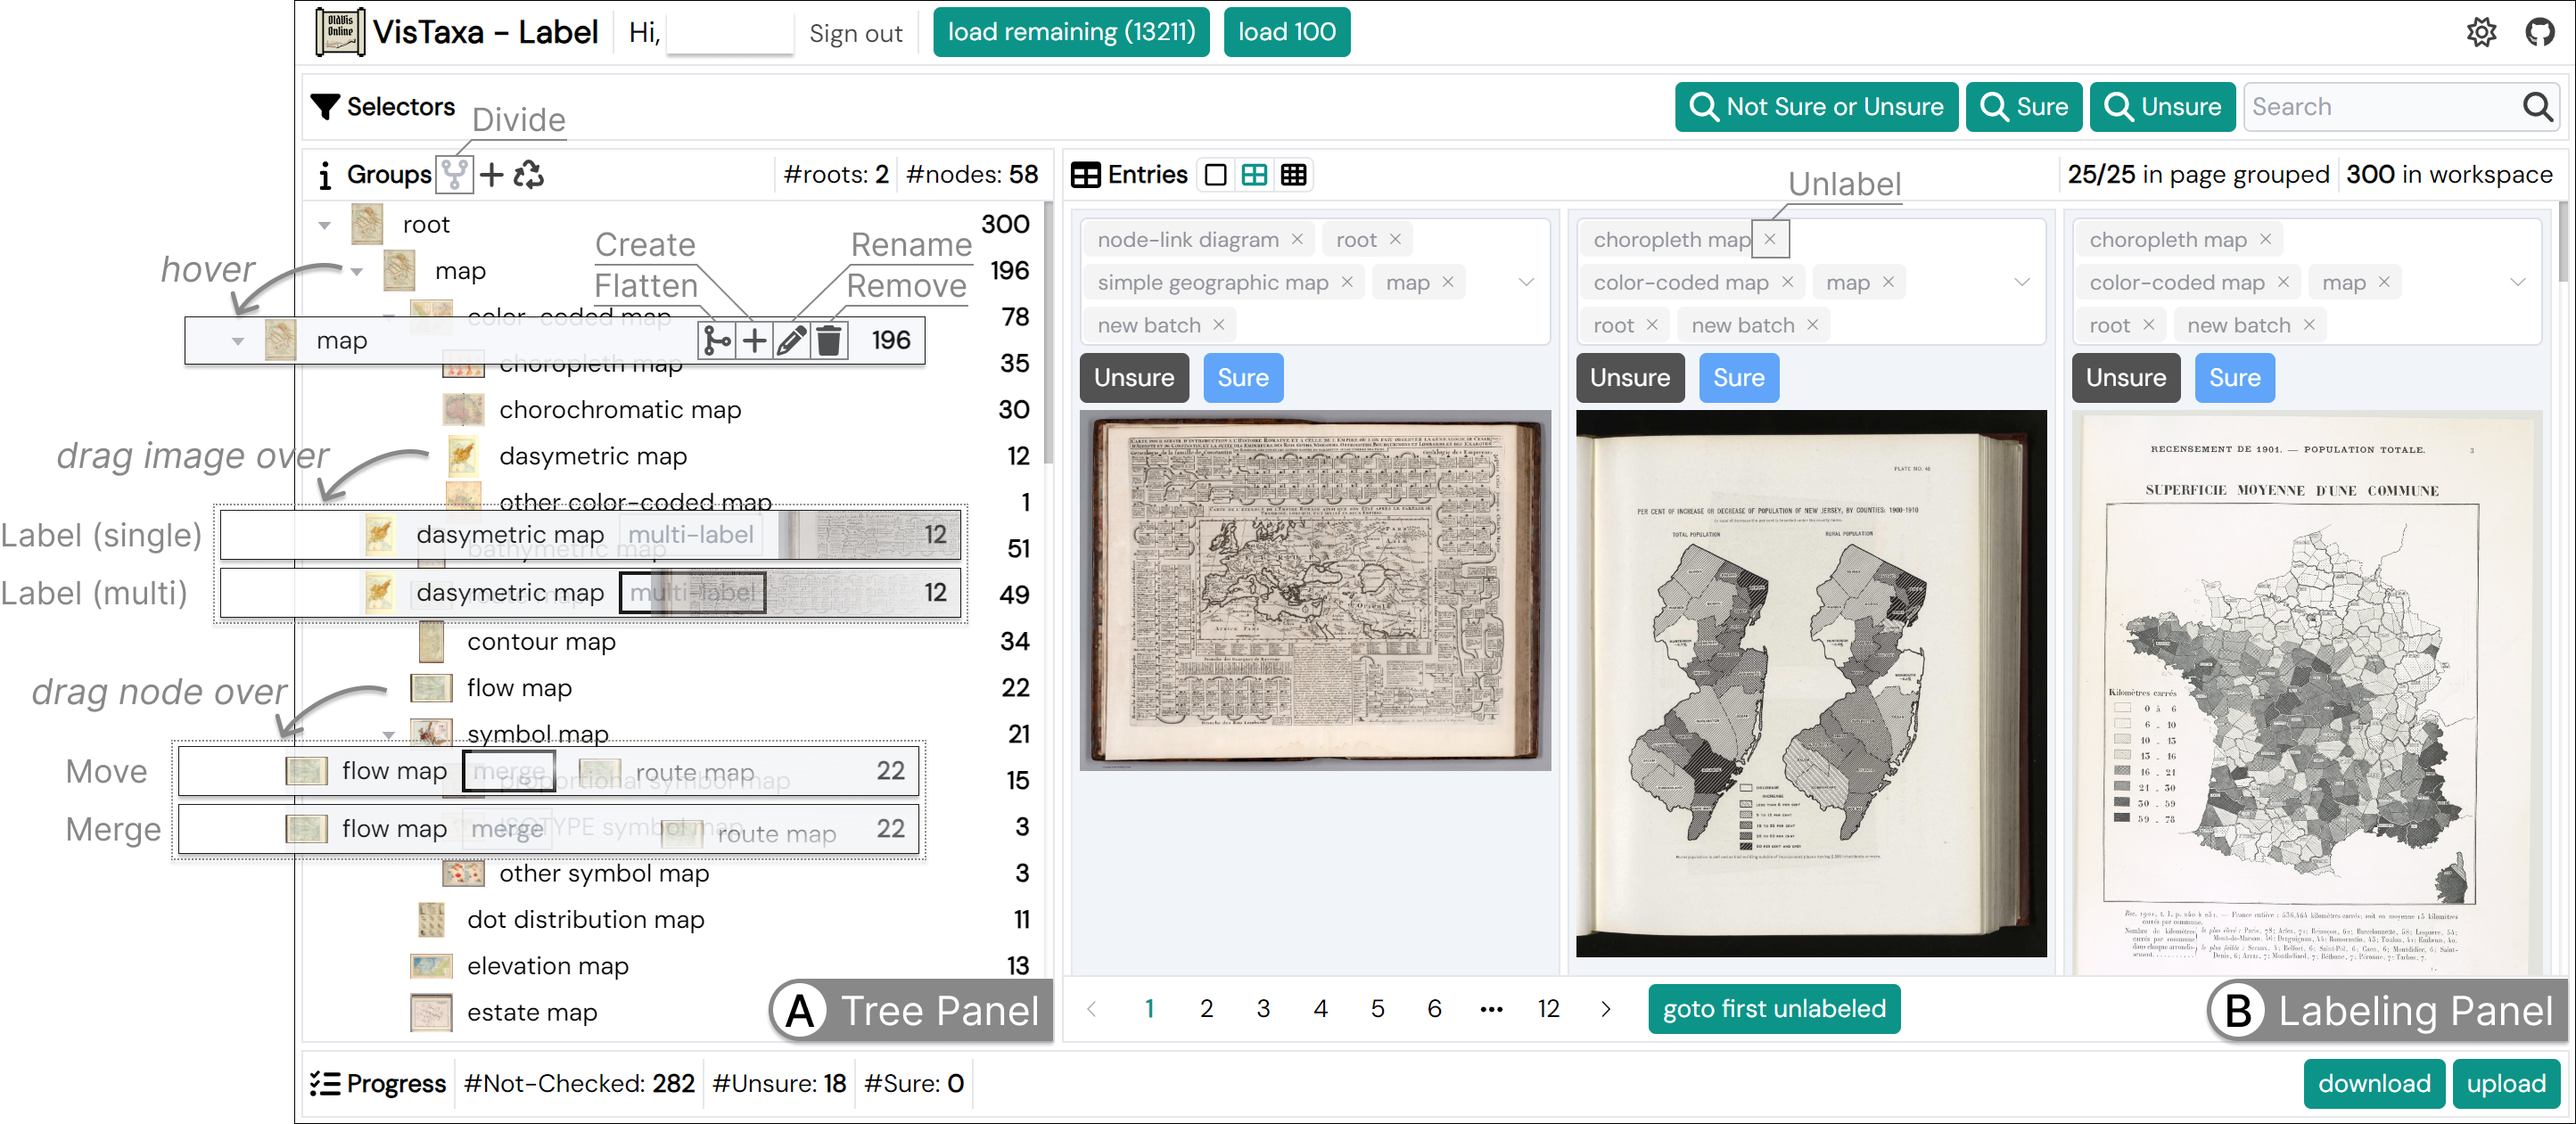
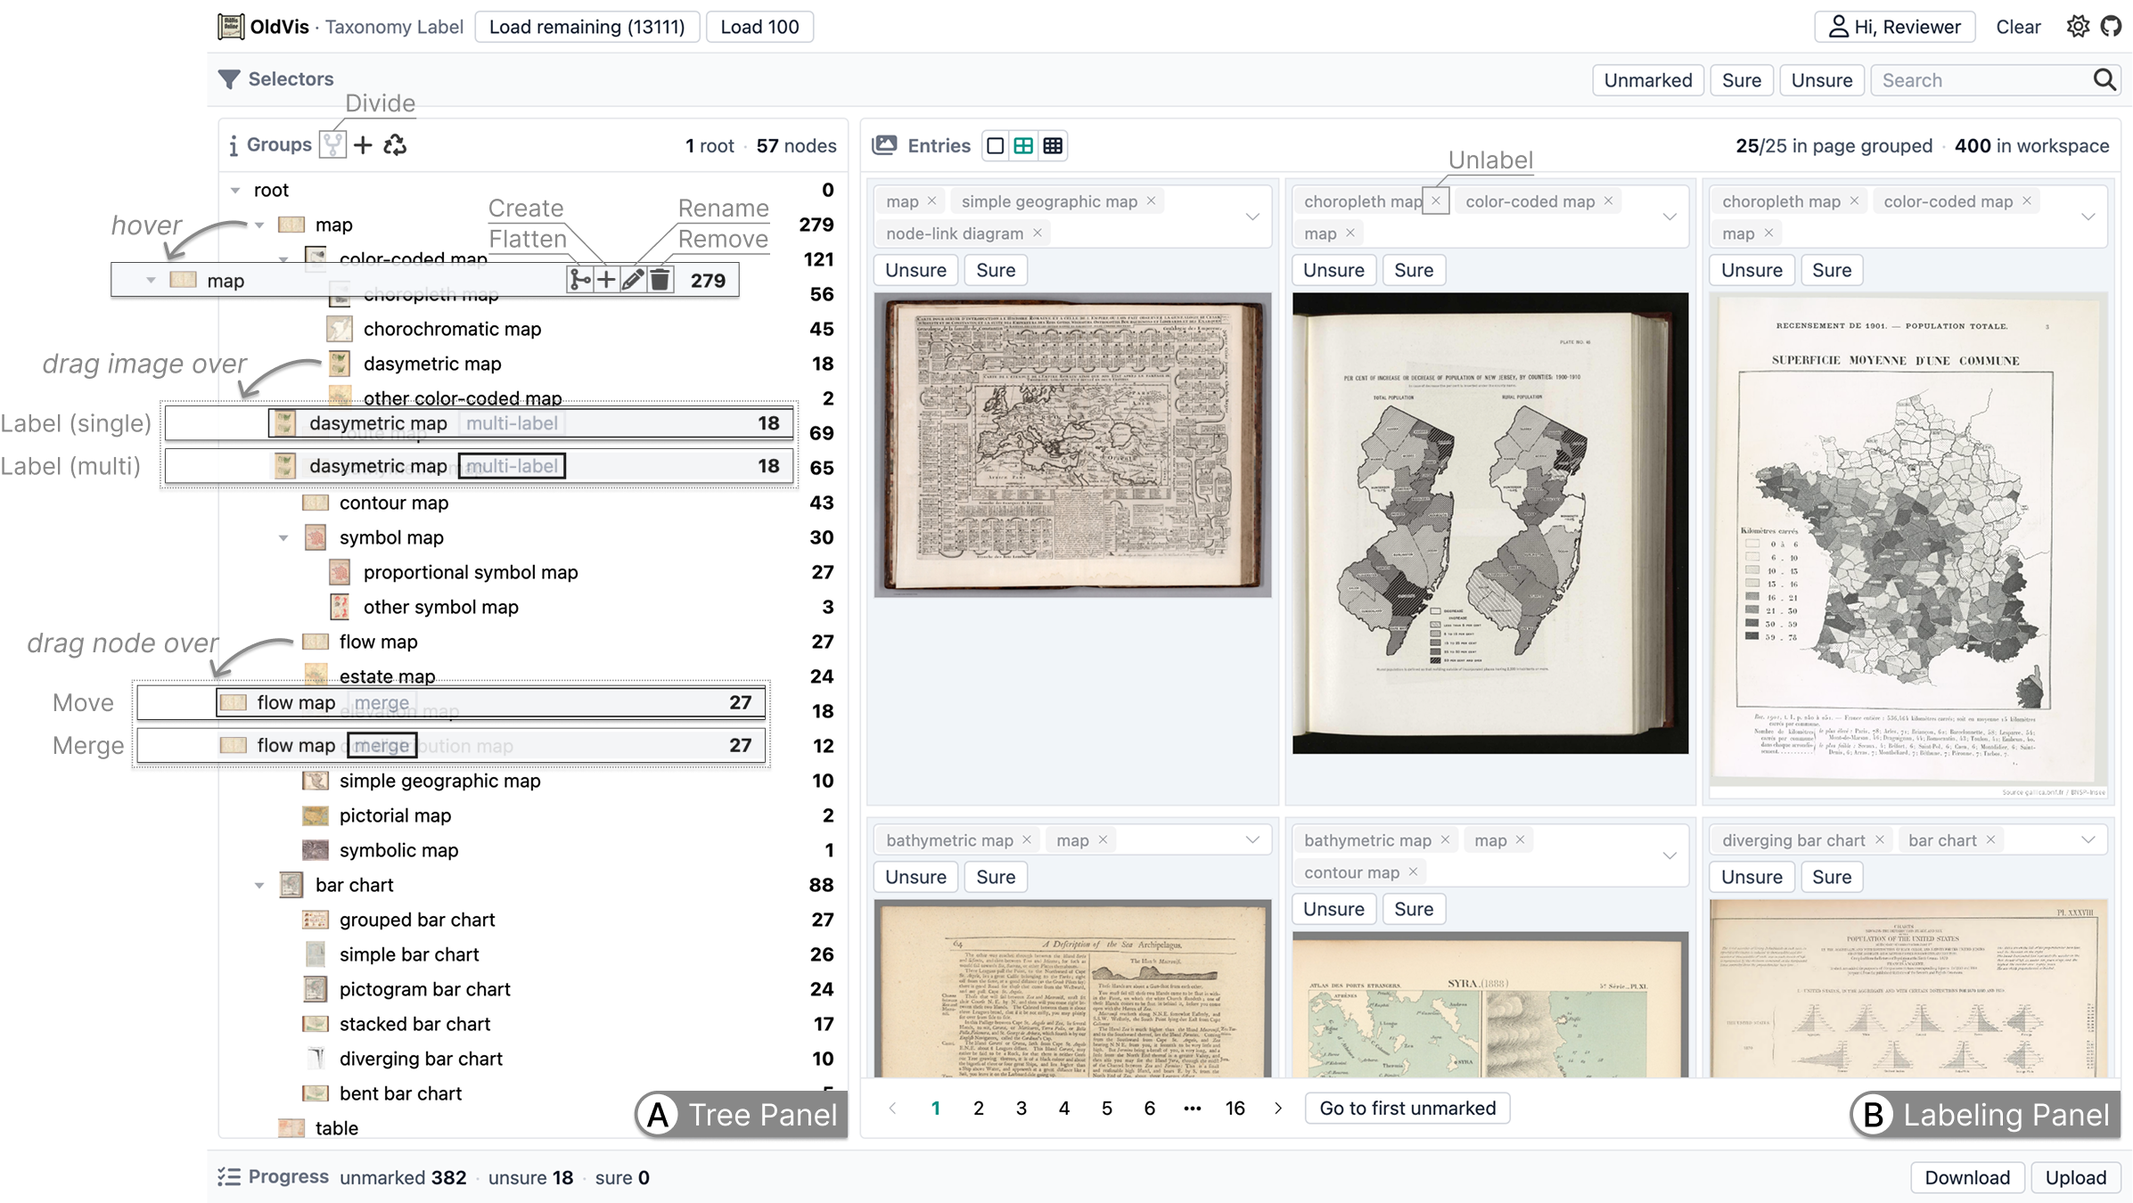
docs: keep Label README shots under public/assets
Move capture outputs out of the public root so screenshots stay together, retarget node-drag clips to flow map, and use leading-none so the drop outline lines up with the row.

diff --git a/apps/label/e2e/helpers/readmeCapture.ts b/apps/label/e2e/helpers/readmeCapture.ts
@@ -5,21 +5,21 @@ import { fileURLToPath } from 'node:url'
 const helperDir = path.dirname(fileURLToPath(import.meta.url))
 const repoRoot = path.resolve(helperDir, '../../../..')
 
-export const MAINTAINER_OVERVIEW = 'screenshot.png'
+export const MAINTAINER_OVERVIEW = 'assets/screenshot.png'
 export const README_UNSURE_COUNT = 18
 
 export const SERVER_IMAGES_DIR = path.join(repoRoot, 'server/static/images')
 export const SERVER_THUMBNAILS_DIR = path.join(repoRoot, 'server/static/thumbnails')
 
 export const SCREENSHOT_OUTPUTS = {
-  raw: 'screenshot-raw.png',
-  hover: 'screenshot-hover.png',
-  dragImageSingle: 'screenshot-drag-image-single.png',
-  dragImageMulti: 'screenshot-drag-image-multi.png',
-  dragNodeMove: 'screenshot-drag-node-move.png',
-  dragNodeMerge: 'screenshot-drag-node-merge.png',
-  dense: 'screenshot-dense.png',
-  tooltip: 'screenshot-tooltip.png',
+  raw: 'assets/screenshot-raw.png',
+  hover: 'assets/screenshot-hover.png',
+  dragImageSingle: 'assets/screenshot-drag-image-single.png',
+  dragImageMulti: 'assets/screenshot-drag-image-multi.png',
+  dragNodeMove: 'assets/screenshot-drag-node-move.png',
+  dragNodeMerge: 'assets/screenshot-drag-node-merge.png',
+  dense: 'assets/screenshot-dense.png',
+  tooltip: 'assets/screenshot-tooltip.png',
 } as const
 
 export function rowMajorAssignGrid(

diff --git a/apps/label/test/readme-capture.test.ts b/apps/label/test/readme-capture.test.ts
@@ -59,17 +59,17 @@ describe('uuidFromImageApiUrl', () => {
 describe('screenshot output names', () => {
   it('writes raw, interaction clips, dense, tooltip and never the maintainer overview', () => {
     expect(Object.values(SCREENSHOT_OUTPUTS)).toEqual([
-      'screenshot-raw.png',
-      'screenshot-hover.png',
-      'screenshot-drag-image-single.png',
-      'screenshot-drag-image-multi.png',
-      'screenshot-drag-node-move.png',
-      'screenshot-drag-node-merge.png',
-      'screenshot-dense.png',
-      'screenshot-tooltip.png',
+      'assets/screenshot-raw.png',
+      'assets/screenshot-hover.png',
+      'assets/screenshot-drag-image-single.png',
+      'assets/screenshot-drag-image-multi.png',
+      'assets/screenshot-drag-node-move.png',
+      'assets/screenshot-drag-node-merge.png',
+      'assets/screenshot-dense.png',
+      'assets/screenshot-tooltip.png',
     ])
     expect(Object.values(SCREENSHOT_OUTPUTS)).not.toContain(MAINTAINER_OVERVIEW)
-    expect(MAINTAINER_OVERVIEW).toBe('screenshot.png')
+    expect(MAINTAINER_OVERVIEW).toBe('assets/screenshot.png')
   })
 })
 

diff --git a/apps/label/e2e/docs-screenshot.spec.ts b/apps/label/e2e/docs-screenshot.spec.ts
@@ -26,6 +26,7 @@ import {
 
 const __dirname = path.dirname(fileURLToPath(import.meta.url))
 const publicDir = path.resolve(__dirname, '../public')
+fs.mkdirSync(path.join(publicDir, 'assets'), { recursive: true })
 const annotationsPath = path.resolve(__dirname, 'fixtures/readme-annotations.json')
 const overviewPath = path.join(publicDir, MAINTAINER_OVERVIEW)
 const COLUMNS_PAGE_SIZE = 25
@@ -193,8 +194,8 @@ test('capture Label README screenshots', async ({ page }) => {
   )
   await captureNodeDragClips(
     page,
-    'flow map',
     'route map',
+    'flow map',
     path.join(publicDir, SCREENSHOT_OUTPUTS.dragNodeMove),
     path.join(publicDir, SCREENSHOT_OUTPUTS.dragNodeMerge),
   )

diff --git a/apps/label/test/v-tree-node.test.ts b/apps/label/test/v-tree-node.test.ts
@@ -177,6 +177,7 @@ describe('vTreeNode image drop / thumbnail', () => {
     expect(inner.classes()).toContain('outline-2')
     expect(inner.classes()).toContain('outline-black')
     expect(inner.classes()).toContain('px-0.5')
+    expect(inner.classes()).toContain('leading-none')
 
     const between = mount(VTreeNode, {
       props: {

diff --git a/apps/label/src/components/VTreeView/VTreeNode.vue b/apps/label/src/components/VTreeView/VTreeNode.vue
@@ -221,7 +221,7 @@ const isRowOutlined = computed(() => (
 <template>
   <div
     ref="container"
-    class="flex grow gap-2 items-center px-0.5"
+    class="flex grow gap-2 items-center px-0.5 leading-none"
     data-tree-row
     :class="{
       'bg-gray-100': isDropTarget,

diff --git a/apps/label/README.md b/apps/label/README.md
@@ -8,18 +8,6 @@ The user can assign hierarchical classification labels, such as `vis -> bar char
 
 The code in this subdirectory is initialized with the [Vitesse-lite template](https://github.com/antfu/vitesse-lite).
 
-## Dense grid
-
-Switch to **Grid layout** for a compact thumbnail sheet. Sure / Unsure is encoded as an inset border (blue = Sure, gray = Unsure) so labels stay visible on full-bleed cells.
-
-![Dense grid with Sure/Unsure borders](./public/screenshot-dense.png)
-
-## Click-to-label tooltip
-
-In the dense grid, **left-click** a cell to open metadata plus taxonomy and Sure/Unsure controls. (Columns / single-object layouts keep those controls beside the image; image click opens metadata only.)
-
-![Dense grid with labeling tooltip open](./public/screenshot-tooltip.png)
-
 ## How to Use
 
 From the **repository root** (this app is part of the pnpm workspace):
@@ -190,9 +178,9 @@ From the repository root:
 | --- | --- |
 | `pnpm --filter ./apps/label dev` | Start the local app (`http://localhost:3333`) |
 | `pnpm --filter ./apps/label test` | Run unit tests |
-| `pnpm --filter ./apps/label docs:screenshot` | Write `public/screenshot-raw.png`, hover/drag clips, `screenshot-dense.png`, and `screenshot-tooltip.png` |
+| `pnpm --filter ./apps/label docs:screenshot` | Write `public/assets/screenshot-raw.png`, hover/drag clips, `screenshot-dense.png`, and `screenshot-tooltip.png` |
 
-`docs:screenshot` is opt-in. It stubs grid assignment and serves plates from `server/static/images/` (the 400 VisTaxa sample; no image API required). It **never** overwrites `public/screenshot.png`. Interaction clips (`screenshot-hover.png`, `screenshot-drag-image-*.png`, `screenshot-drag-node-*.png`) are live Hover / Drag states for compositing callouts onto the annotated overview.
+`docs:screenshot` is opt-in. It stubs grid assignment and serves plates from `server/static/images/` (the 400 VisTaxa sample; no image API required). It **never** overwrites `public/assets/screenshot.png`. Interaction clips (`screenshot-hover.png`, `screenshot-drag-image-*.png`, `screenshot-drag-node-*.png`) are live Hover / Drag states for compositing callouts onto the annotated overview.
 
 Playwright browsers: `pnpm exec playwright install chromium` if needed.
 
